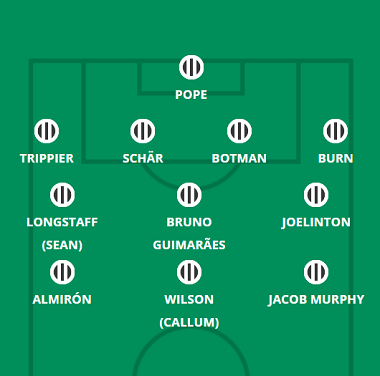
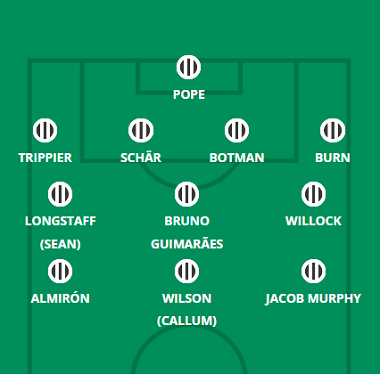
8/20

diff --git a/liverpool.html b/liverpool.html
@@ -68,7 +68,7 @@
             <hgroup>
                 <h1> Provável Escalação</h1>
                 <h2 class="direita"> por FabioVascão </h2>
-                <h3 class="direita"> Atualizado em 28/Outubro/2022 </h3>
+                <h3 class="direita"> Atualizado em 04/Novembro/2022 </h3>
             </hgroup>
     
             <h2 class="time"> <img src="_fotos/_logos/logoliverpool.png" />Liverpool</h2>
@@ -77,9 +77,9 @@
                     <img src="_fotos/_dinamicas/liverpool.png" />
                 </figure>
             </aside>
-                <div class="escalacao"><h2 class="titulo">Ultimas Notícias</h2> <h4><p>Diogo Jota (panturrilha), Luis Diaz (joelho), Joel Matip (panturrilha) e Arthur Melo (músculo) continuam lesionados, enquanto Naby Keita (músculo) não está em forma apesar do regresso aos treinos. Thiago Alcântara está disponível após uma infecção no ouvido, pelo lado positivo, enquanto Ibrahima Konate (músculo) e Darwin Nunez (músculo) estavam de volta ao elenco da rodada antes do confronto da Liga dos Campeões no meio da semana com o Ajax. Jordan Henderson também deve se recuperar de uma pancada no joelho que sofreu na quarta-feira, mas com um tempo de retorno tão curto entre os jogos, Jurgen Klopp pode optar por não arriscar seu capitão do clube envelhecido - particularmente com Thiago de volta e nomes como Curtis Jones e James Milner oferecendo opções alternativas. Outra agenda apertada de quarta-sábado-terça-feira aguarda os Reds, levando à possibilidade de mais gestão de minutos, embora o time de Klopp já tenha selado um lugar nas oitavas de final da Liga dos Campeões; a questão agora é se o técnico do Liverpool realmente vai para a jugular contra o Napoli na próxima semana na tênue esperança de que seu time possa derrubar o time italiano na liderança do Grupo A. Roberto Firmino já foi titular em cinco partidas nos últimos 17 dias e pode ser reservado para um descanso, enquanto alguns cuidados pós-lesão sensíveis de Trent Alexander-Arnold e Andrew Robertson viram ambos os jogadores no banco ultimamente. O escocês já foi titular em dois jogos esta semana, pelo que existe a possibilidade de Kostas Tsimikas regressar para este. Também há um pouco de incerteza sobre a formação inicial, já que Klopp se transformou em um diamante no meio-campo no meio da semana, tendo experimentado sucesso misto com um novo visual 4-4-2 antes disso.</p></h4><br>
-                    <h4><strong>Jogadores fora da próxima partida:</strong> Davies, Díaz, Keita, Matip, Arthur e Diogo Jota</h4><br><br>
-                    <h4><strong>Jogadores dúvidas:</strong> Henderson</h4>
+                <div class="escalacao"><h2 class="titulo">Ultimas Notícias</h2> <h4><p>James Milner (cabeça) ficará de fora, pois cumpre o protocolo de seis dias de concussão e Diogo Jota (panturrilha), Luis Diaz (joelho), Joel Matip (panturrilha) e Arthur Melo (músculo) continuam lesionados, enquanto Naby Keita (músculo) está aquém da aptidão para o jogo, apesar do retorno aos treinos. Jordan Henderson está bem depois de perder por precaução contra o Napoli na terça-feira, no entanto, e há todas as chances de vermos o capitão do clube de longa data ao lado de Thiago Alcantara e Fabinho na sala de máquinas contra os Spurs no domingo. Depois de experimentar um 4-4-2 e uma formação de diamante nas últimas semanas, Jurgen Klopp voltou ao seu fiel 4-3-3 para a vitória sobre o Napoli e disse que seu time normalmente pode "defender melhor nesse sistema" - algo que pode estar no fundo de sua mente enquanto os Reds se preparam para enfrentar Harry Kane. Mohamed Salah, Roberto Firmino e Darwin Nunez podem começar juntos, não importa as táticas, é claro, com Firmino implantado como mais um número 10 em uma formação de diamante e Nunez e / ou Salah capazes de se mover mais se virmos um 4-4 -2 ou 4-3-3. Firmino começou sete partidas seguidas em todas as competições e um descanso certamente se aproxima, mas com uma reviravolta generosa de terça a domingo e uma partida da EFL Cup contra o Derby na próxima quarta-feira, o brasileiro pode ser convidado a voltar mais uma vez antes de ganha um respiro bem merecido. Curtis Jones, Fabio Carvalho e Alex Oxlade-Chamberlain foram todos apontados por Klopp como opções no flanco esquerdo se for um caso de ou/ou com Firmino e Nunez, enquanto Harvey Elliott é uma possibilidade na ala direita de um 4-4 -2 ou no meio-campo central se Henderson estiver apto apenas para o banco. O único enigma na parte de trás é sobre quem faz parceria com Virgil van Dijk, com Ibrahima Konate composto em seu retorno no meio da semana, mas talvez tenha sido feito subsídios por seu tempo à margem - então Joe Gomez pode ficar de execução na liga, apesar de uma exibição complicada contra o Leeds no último fim de semana.</p></h4><br>
+                    <h4><strong>Jogadores fora da próxima partida:</strong> Díaz, Keita, Matip, Milner, Arthur e Diogo Jota</h4><br><br>
+                    <h4><strong>Jogadores dúvidas:</strong> </h4>
                 </div> 
         </header>
         </article>

diff --git a/newcastle.html b/newcastle.html
@@ -68,7 +68,7 @@
             <hgroup>
                 <h1> Provável Escalação</h1>
                 <h2 class="direita"> por FabioVascão </h2>
-                <h3 class="direita"> Atualizado em 28/Outubro/2022 </h3>
+                <h3 class="direita"> Atualizado em 04/Novembro/2022 </h3>
             </hgroup>
     
             <h2 class="time"> <img src="_fotos/_logos/logonewcastle.png" />Newcastle</h2>
@@ -77,9 +77,9 @@
                     <img src="_fotos/_dinamicas/newcastle.png" />
                 </figure>
             </aside>
-                <div class="escalacao"><h2 class="titulo">Ultimas Notícias</h2> <h4><p>Eddie Howe disse que Allan Saint-Maximin (músculo posterior da coxa) "tem uma chance" de estar envolvido contra o Aston Villa no domingo, embora o dever de banco na melhor das hipóteses acene, já que ele jogou todos os 12 minutos desde agosto. Howe relatou apenas "solavancos e contusões" da semana de três jogos que o Newcastle acabou de sofrer, com uma semana inteira de recuperação proporcionando alguma pausa após um período agitado. Howe, de forma incomum, manteve as coisas resolvidas nas semanas de jogos 11-13, fazendo apenas uma mudança no time titular - Joe Willock para Jacob Murphy - nas três partidas, apesar da rápida reviravolta. Com nomes como Nick Pope, Callum Wilson, Miguel Almiron e Bruno Guimarães todos titulares 'acertados' (se o condicionamento físico permitir) e os quatro zagueiros em forma inalterados em cinco partidas, é provável que a decisão sobre quem começa na ala esquerda apresentará Howe com sua maior dor de cabeça de seleção neste fim de semana. Joelinton foi empurrado para a frente no fim de semana passado, com seu enxerto e habilidades defensivas talvez mais adequadas para uma partida fora de casa contra os Spurs, mas Howe pode decidir restabelecer Murphy às custas de Willock com os Magpies em casa. Paul Dummett (panturrilha), Alexander Isak (tornozelo), Karl Darlow (tornozelo), Emil Krafth (joelho) e Matt Ritchie (panturrilha) permanecem de fora, mas Elliot Anderson está de volta após uma pequena coisinha e Jonjo Shelvey retornou recentemente ao elenco da jornada, embora sejam esperados mais minutos do banco inicialmente após um longo período fora.</p></h4><br>
-                    <h4><strong>Jogadores fora da próxima partida:</strong> Darlow, Dummett, Gayle, Isak, Krafth e Ritchie </h4><br><br>
-                    <h4><strong>Jogadores dúvidas:</strong> Saint-Maximin</h4>
+                <div class="escalacao"><h2 class="titulo">Ultimas Notícias</h2> <h4><p>Joelinton perderá a viagem a Southampton depois de receber seu quinto cartão amarelo da temporada, enquanto Paul Dummett (panturrilha), Alexander Isak (tornozelo), Emil Krafth (joelho) e Matt Ritchie (panturrilha) permanecem de fora. Houve notícias bastante positivas em outros lugares, no entanto, com Fabian Schar passando em forma depois de reclamar de tensão no tendão no fim de semana passado e Karl Darlow retornando ao treinamento da equipe depois de dois meses parado. A grande notícia do ponto de vista da FPL preocupou Callum Wilson, que revelou em um podcast esta semana que estava sofrendo de um resfriado. Eddie Howe disse que "dedos cruzados" o atacante "está bem", e o atacante foi realmente retratado em treinamento no mesmo dia em que o referido podcast foi ao ar. Supondo que Wilson e Schar estejam prontos para começar, o único verdadeiro dilema de seleção de Howe diz respeito a quem tomará o lugar de Joelinton. O brasileiro, normalmente usado no meio-campo central nos dias de hoje, jogou na frente de três nos últimos dois jogos, então Jacob Murphy, Allan Saint-Maximin e Ryan Fraser terão projetos no lugar vago da ala esquerda em St Mary's. Com Saint-Maximin apenas voltando de lesão e ficando apenas cinco minutos fora do banco contra o Aston Villa, talvez seja Murphy - que começou nesta posição nas Rodadas 9 a 12 - quem tem a vantagem. Jogadores como Nick Pope, Miguel Almiron e Bruno Guimarães são todos titulares 'acertados' (se o condicionamento físico permitir) e o zagueiro em forma não mudou em seis partidas, enquanto a boa forma de Sean Longstaff e a ligeira reserva de Howe sobre o novo Jonjo A prontidão de jogo de Shelvey sugere que também não haverá ajustes no meio do parque.</p></h4><br>
+                    <h4><strong>Jogadores fora da próxima partida:</strong> Dummett, Gayle, Isak, Joelinton e Ritchie </h4><br><br>
+                    <h4><strong>Jogadores dúvidas:</strong> Darlow e Wilson</h4>
                 </div> 
         </header>
         </article>
